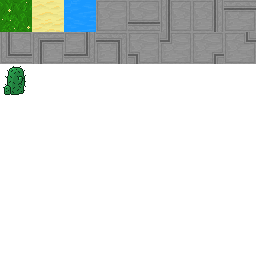
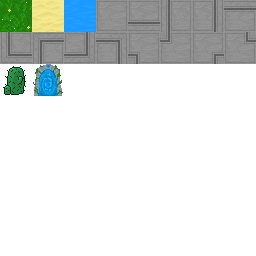
Plot class created, Atlas class fix

Changed region(s): [[0.125, 0.25, 0.25, 0.375]]

diff --git a/src/scripts/Plot.ts b/src/scripts/Plot.ts
@@ -1,0 +1,42 @@
+import Collision from "./Collision";
+import GameLoop from "./GameLoop";
+import BackgroundLayer from "./layers/BackgroundLayer";
+import Player from "./layers/Player";
+import StructureLayer from "./layers/StructureLayer";
+import Atlas from "./utils/Atlas";
+
+type mapObject = {
+    mapString:string,
+    collisionString:string,
+    backgroundBlockId:number
+}
+
+export default class Plot{
+    private id:number
+    private atlas:Atlas
+    private mapJson:mapObject
+    
+    constructor(_id:number, _mapJson:mapObject, _atlas:Atlas){
+        this.id = _id
+        this.atlas = _atlas
+        this.mapJson = _mapJson
+        this.createLayers(_atlas)
+    }
+
+    private createLayers(_atlas:Atlas):void{
+        GameLoop.clearQueue()
+        const backgroundLayer = new BackgroundLayer(_atlas, this.mapJson.backgroundBlockId)
+        const structureLayer = new StructureLayer(_atlas, this.mapJson.mapString)
+        GameLoop.addToQueue(backgroundLayer)
+        GameLoop.addToQueue(structureLayer)
+    }
+
+    public addPlayer(_player:Player){
+        const collision = new Collision(this.mapJson.collisionString)
+        _player.addCollision(collision)
+        GameLoop.setCamera(_player.getPosition())
+        GameLoop.addToQueue(_player)
+    }
+
+    
+}

diff --git a/src/scripts/main.ts b/src/scripts/main.ts
@@ -17,6 +17,8 @@ import loadImage from "./utils/TextureLoader";
 // ../assets
 import atlasImg from "../assets/images/atlas.png"
 import skin from "../assets/images/skin.png"
+import Plot from "./Plot";
+       
 
 
 
@@ -28,16 +30,12 @@ async function main() {
     const atlas = new Atlas(atlasImg)
     await atlas.loadImage()
     const playerSkinImg = await loadImage(skin)
-    console.log("Textures loaded!")
-    const bgLayer = new BackgroundLayer(atlas, 2)
-    const structLayer = new StructureLayer(atlas, mapJson.mapString)
     const player = new Player(playerSkinImg)
-    const collision = new Collision(mapJson.collisionString)
-    player.addCollision(collision)
-    GameLoop.setCamera(player.getPosition())
-    GameLoop.addToQueue(bgLayer)
-    GameLoop.addToQueue(structLayer)
-    GameLoop.addToQueue(player)
+    console.log("Textures loaded!")
+
+    const plot = new Plot(0, mapJson, atlas)
+    plot.addPlayer(player)
+    
     GameLoop.start()
 
 }

diff --git a/src/scripts/utils/Atlas.ts b/src/scripts/utils/Atlas.ts
@@ -42,10 +42,10 @@ export default class Atlas{
      * Maps block id to coordinates on texturesImage (sx, sy).
      */
     private cropForBlocks():void{
-        this.blockId[0] = [-this.blockWidth, -this.blockWidth] // id = 0 is empty (air block) 
+        // this.blockId[0] = [-this.blockWidth, -this.blockWidth] // id = 0 is empty (air block) 
         for (let i = 0; i < (this.blocksPerRow)**2; i++) {
-            const j = Math.floor(i/this.blocksPerRow)*this.blocksPerRow
-            this.blockId[i+1] = [(i-j)*this.blockWidth, j*this.blockWidth]
+            const j = Math.floor(i/this.blocksPerRow)
+            this.blockId.push([(i-(j*this.blocksPerRow))*this.blockWidth, j*this.blockWidth])
         }
     }
 

diff --git a/src/scripts/utils/generateGrid.ts b/src/scripts/utils/generateGrid.ts
@@ -16,10 +16,10 @@ for (let i = 0; i < len; i++) {
     collisionArray[i] = "0"
 }
 
-mapArray[91] = "1"
+mapArray[91] = "2"
 collisionArray[91] = "1"
 
-mapArray[33] = "3"
+mapArray[33] = "17"
 collisionArray[33] = "1"
 
 mapString = mapArray.toString().replace(/,/g, ';')
@@ -27,13 +27,10 @@ collisionString = collisionArray.toString().replace(/,/g, '')
 
 const mapObject:any = {}
 
+mapObject["backgroundBlockId"] = 1
 mapObject["mapString"] = mapString
 mapObject["collisionString"] = collisionString
 
-console.log()
 fs.writeFile(path.resolve(__dirname, 'map.json'), JSON.stringify(mapObject), (err:Error) => {
     if(err) throw err
 })
-// fs.we
-
-// console.log(mapString)

diff --git a/src/scripts/GameLoop.ts b/src/scripts/GameLoop.ts
@@ -10,7 +10,6 @@ export default class GameLoop{
     private static drawQueue:Layer[] = []
     private static updateQueue:Layer[] = []
     private static frames:number = 0
-    private static camera:Camera
 
     private constructor(){}
 
@@ -54,6 +53,11 @@ export default class GameLoop{
             else Display.draw(layer.getCanvas(), 0, 0)
             
         })
+    }
+
+    public static clearQueue():void{
+        GameLoop.drawQueue = []
+        GameLoop.updateQueue = []
     }
 
     /**

diff --git a/src/scripts/layers/StructureLayer.ts b/src/scripts/layers/StructureLayer.ts
@@ -37,10 +37,8 @@ export default class StructureLayer extends TextureLayer{
         for (let i = 0; i < blocksPerRow**2; i++) {
             const id = parseInt(blocksGridArray[i])
             if(!isNaN(id)){
-
                 const y = Math.floor(i/blocksPerRow)
                 const x = i - y*blocksPerRow
-                
                 this.drawBlock(id, x, y)
             }
         }
